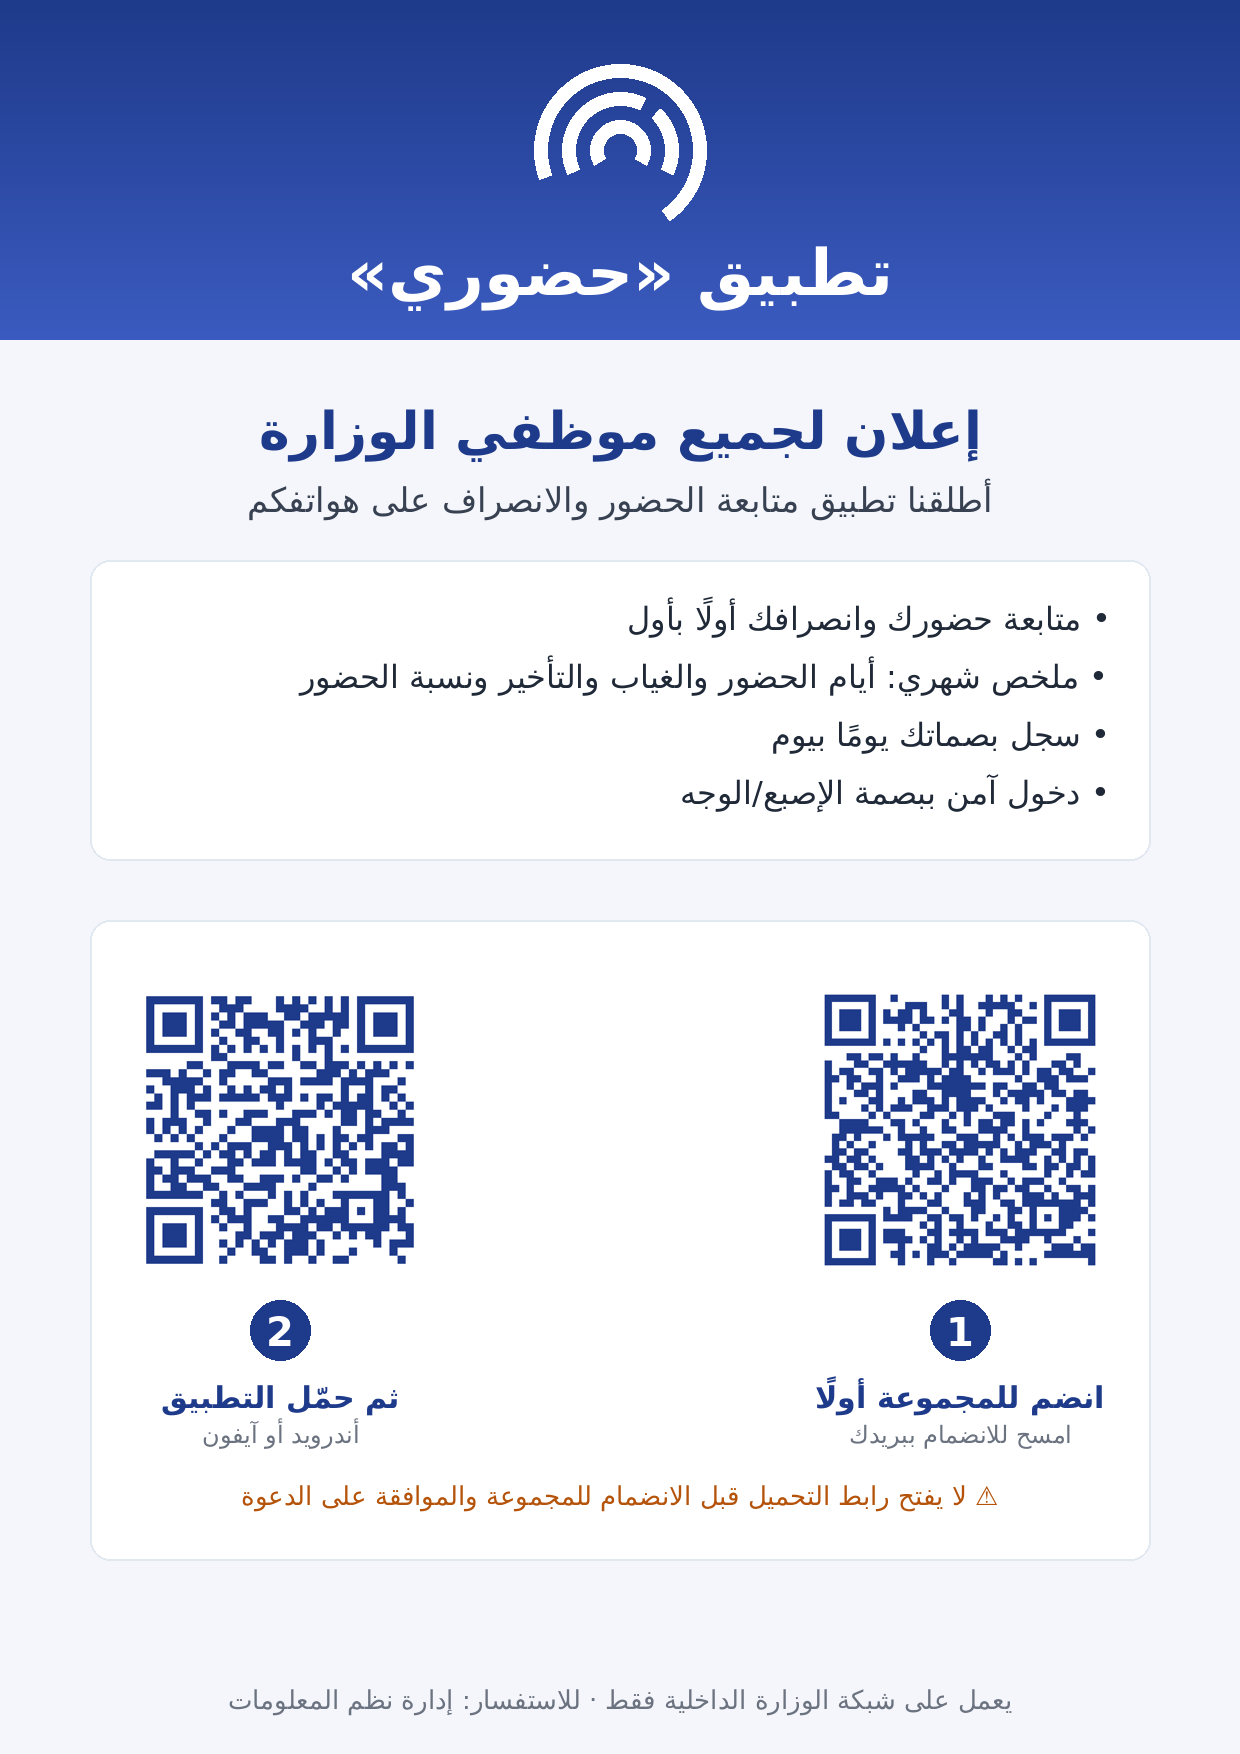
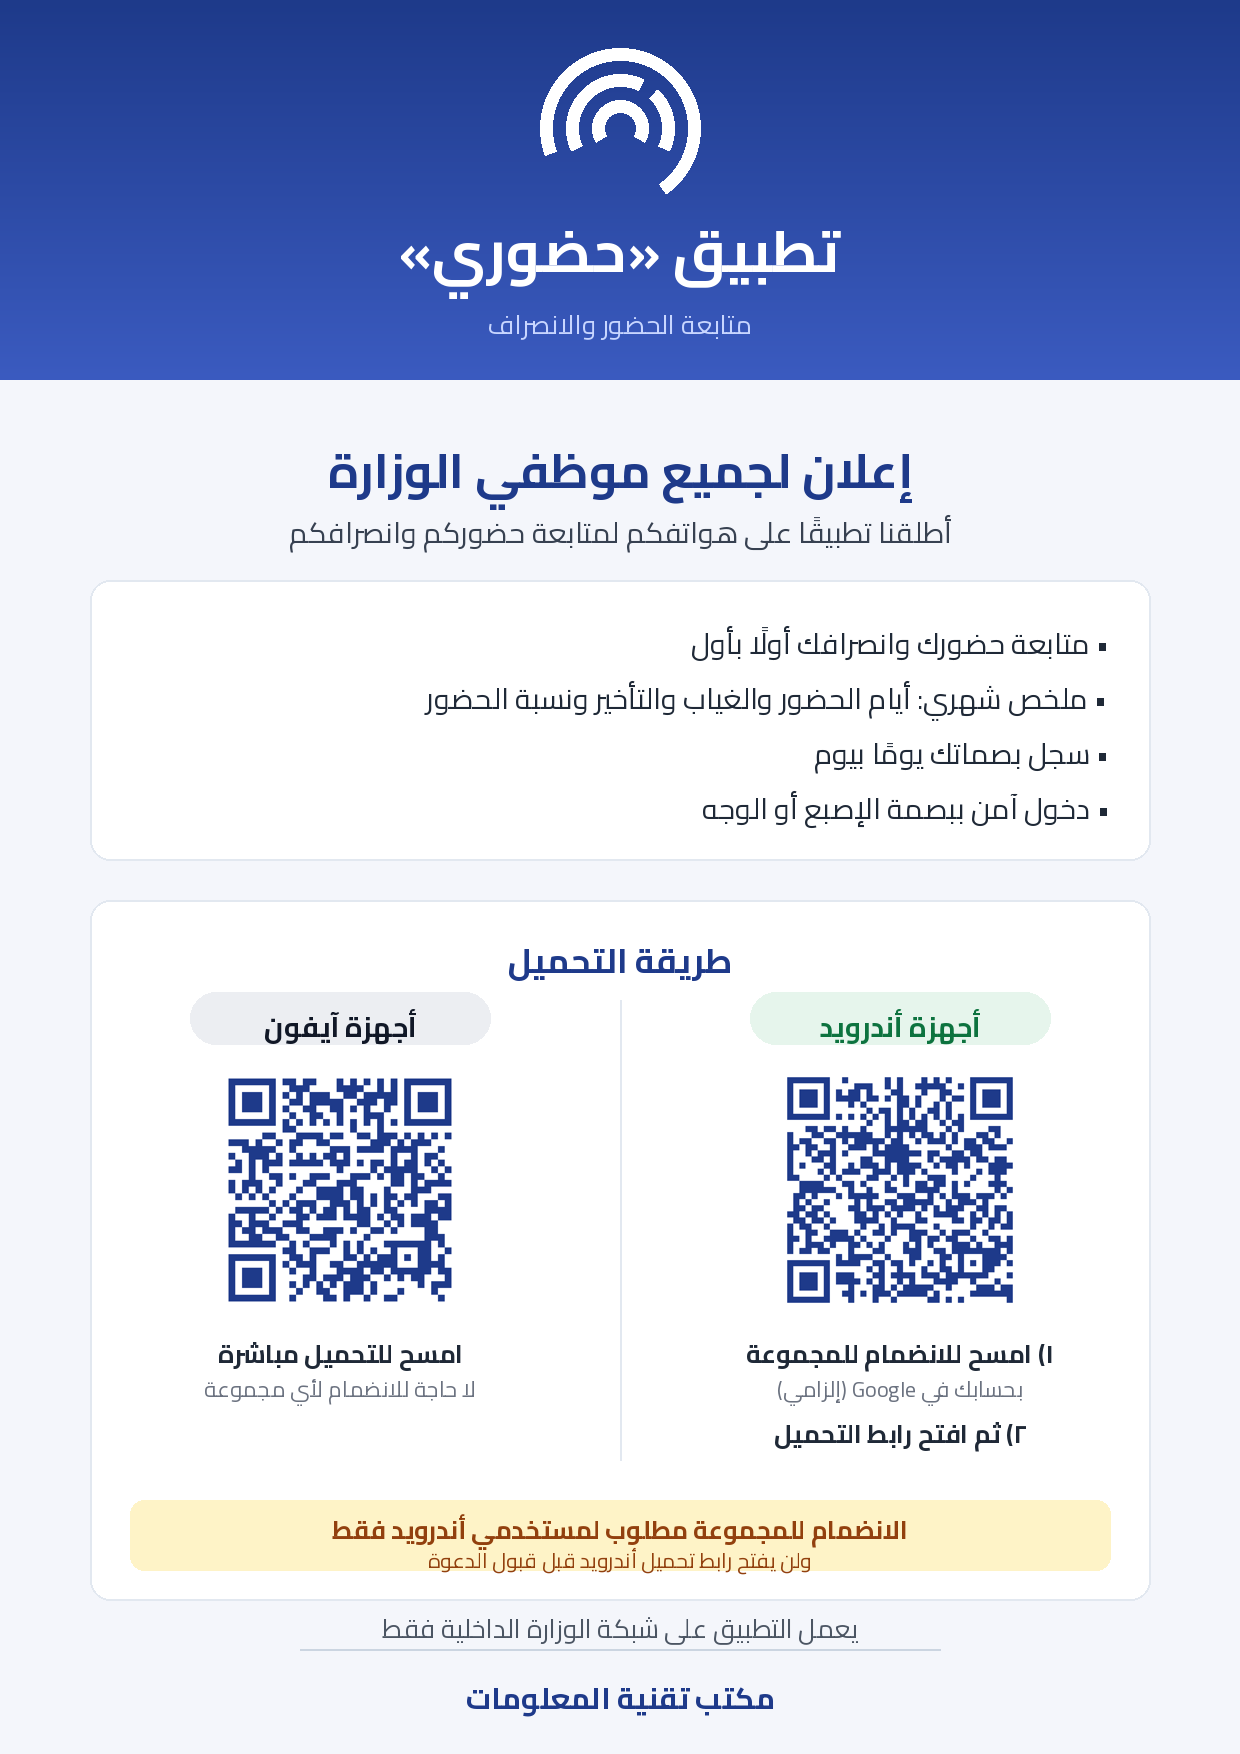
تحديث الإعلان: خط Cairo، مكتب تقنية المعلومات، وتوضيح المجموعة لأندرويد فقط
- الإعلان بخط Cairo مع عمودين منفصلين (أندرويد/آيفون) وتنبيه أن الانضمام
  للمجموعة مطلوب لمستخدمي أندرويد فقط، وتذييل "مكتب تقنية المعلومات"
- hodory.html: خط Cairo، إخفاء تنبيه المجموعة على آيفون، رابط المجموعة مباشر

Claude-Session: https://claude.ai/code/session_01SXp9iPG69cjs8EbdCx34Tx

diff --git a/mobile/store/hodory.html b/mobile/store/hodory.html
@@ -4,10 +4,11 @@
     <meta charset="utf-8" />
     <meta name="viewport" content="width=device-width, initial-scale=1.0" />
     <title>تحميل تطبيق حضوري — وزارة الصحة</title>
+    <link href="https://fonts.googleapis.com/css2?family=Cairo:wght@400;600;700&display=swap" rel="stylesheet">
     <style>
         * { margin: 0; padding: 0; box-sizing: border-box; }
         body {
-            font-family: -apple-system, "Segoe UI", Tahoma, sans-serif;
+            font-family: "Cairo", -apple-system, "Segoe UI", Tahoma, sans-serif;
             background: linear-gradient(160deg, #1E3A8A, #3B5BC0);
             min-height: 100vh;
             display: flex; align-items: center; justify-content: center;
@@ -63,9 +64,12 @@
         <h1>تطبيق «حضوري»</h1>
         <p class="sub">متابعة الحضور والانصراف — وزارة الصحة</p>
 
-        <div class="step">
-            <b>⚠ خطوة أساسية قبل التحميل</b>
-            يجب أولًا الانضمام لمجموعة الاختبار عبر بريدك في Google، وإلا لن يفتح رابط التحميل.
+        <div class="step" id="androidStep">
+            <b>⚠ لمستخدمي أندرويد فقط</b>
+            يجب أولًا الانضمام لمجموعة الاختبار عبر بريدك في Google، وإلا لن يفتح رابط
+            التحميل. <a href="https://groups.google.com/g/moh-app-testers"
+            style="color:#92400e;font-weight:700">انضم للمجموعة من هنا</a>.
+            <br>مستخدمو آيفون لا يحتاجون الانضمام لأي مجموعة.
         </div>
 
         <a class="btn btn-android" id="android"
@@ -80,7 +84,8 @@
         </a>
 
         <p class="note">
-            سيظهر الزر المناسب لجهازك تلقائيًا. للاستفسار: راجع إدارة نظم المعلومات.
+            يعمل التطبيق على شبكة الوزارة الداخلية فقط.<br>
+            <b>مكتب تقنية المعلومات</b>
         </p>
     </div>
 
@@ -93,13 +98,16 @@
             var isAndroid = /android/i.test(ua);
             var android = document.getElementById('android');
             var ios = document.getElementById('ios');
+            var step = document.getElementById('androidStep');
 
             if (isAndroid) {
                 ios.classList.add('hidden');
             } else if (isIOS) {
                 android.classList.add('hidden');
+                // تنبيه المجموعة يخص أندرويد فقط
+                step.classList.add('hidden');
             }
-            // على الحاسوب: يظهر الزران معًا (الوضع الافتراضي)
+            // على الحاسوب: يظهر الزران والتنبيه معًا (الوضع الافتراضي)
         })();
     </script>
 </body>
